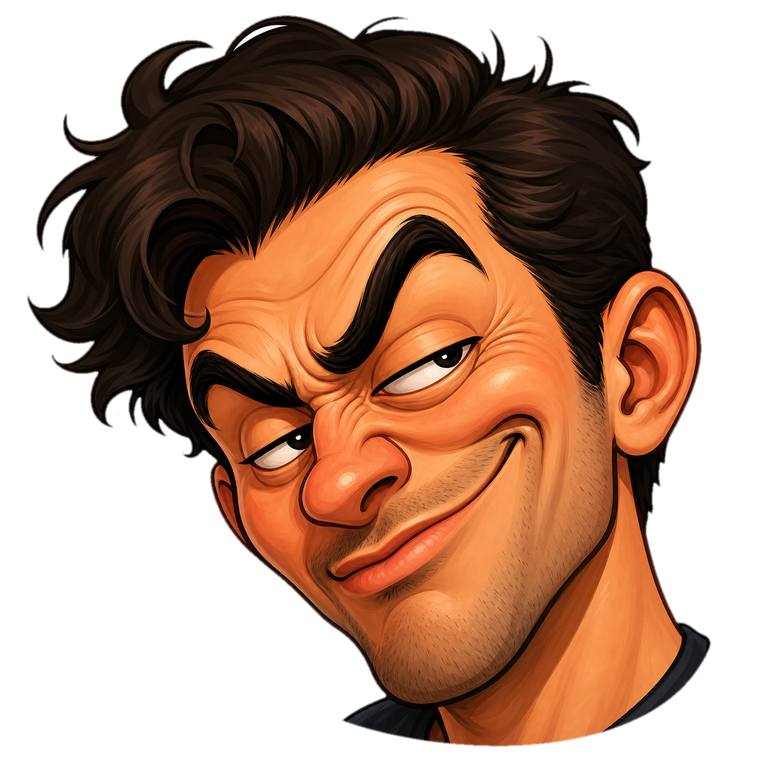
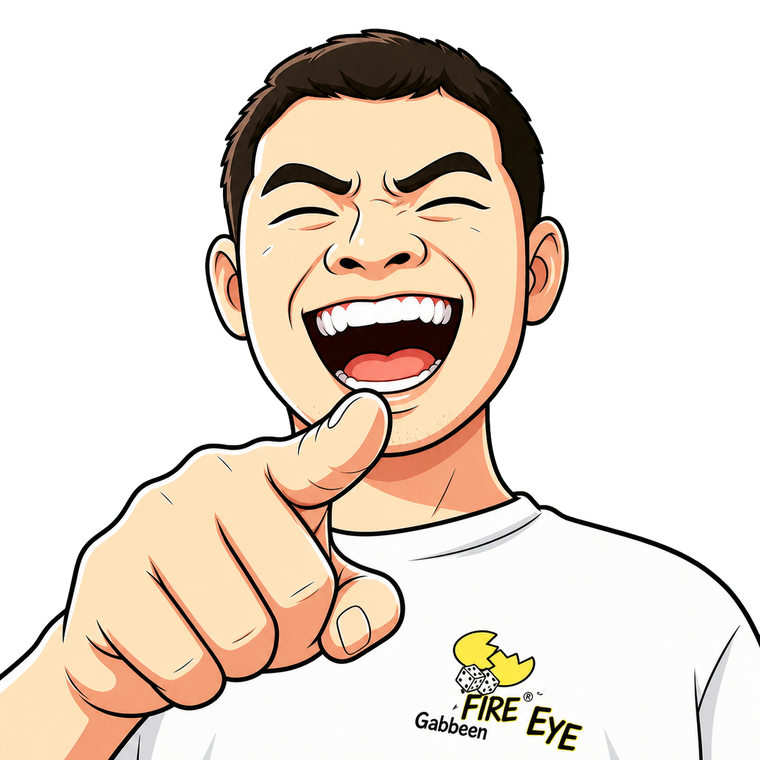
Add files via upload

diff --git a/slap-hand-game/game.js b/slap-hand-game/game.js
@@ -14,13 +14,16 @@ const ASSETS = {
 const images = {};
 const audio = {
   palm: null,
-  back: null
+  back: null,
+  bgm: null,
+  bgmStarted: false
 };
 
 const state = {
   width: 0,
   height: 0,
   pixelRatio: 1,
+  safeTop: 0,
   loaded: 0,
   total: Object.keys(ASSETS).length,
   face: "faceNormal",
@@ -28,6 +31,10 @@ const state = {
   actionStart: 0,
   leftCount: 0,
   rightCount: 0,
+  energyScore: 0,
+  lastEnergyDirection: null,
+  lastEnergyGain: 0,
+  lastEnergyGainAt: 0,
   message: "点左右方向键，安排他一下",
   leftButton: null,
   rightButton: null,
@@ -35,6 +42,7 @@ const state = {
 };
 
 const ACTION_DURATION = 760;
+const ENERGY_MAX = 333;
 const DEFAULT_IDLE_MESSAGE = "继续点，左右都能打";
 const TAUNT_MESSAGES = [
   "打啊，就没力气了？",
@@ -56,13 +64,27 @@ function getIdleMessage() {
   return TAUNT_MESSAGES[phraseIndex];
 }
 
+function getEnergyGain(direction) {
+  return state.lastEnergyDirection && state.lastEnergyDirection !== direction ? 3 : 1;
+}
+
+function addEnergy(direction) {
+  const gain = getEnergyGain(direction);
+  state.energyScore = Math.min(state.energyScore + gain, ENERGY_MAX);
+  state.lastEnergyDirection = direction;
+  state.lastEnergyGain = gain;
+  state.lastEnergyGainAt = Date.now();
+  return gain;
+}
+
 function getWindowSize() {
   if (wx.getWindowInfo) {
     const info = wx.getWindowInfo();
     return {
       width: info.windowWidth,
       height: info.windowHeight,
-      pixelRatio: info.pixelRatio || 1
+      pixelRatio: info.pixelRatio || 1,
+      safeTop: info.safeArea ? info.safeArea.top : 0
     };
   }
 
@@ -70,7 +92,8 @@ function getWindowSize() {
   return {
     width: info.windowWidth,
     height: info.windowHeight,
-    pixelRatio: info.pixelRatio || 1
+    pixelRatio: info.pixelRatio || 1,
+    safeTop: info.safeArea ? info.safeArea.top : 0
   };
 }
 
@@ -79,6 +102,7 @@ function resizeCanvas() {
   state.width = size.width;
   state.height = size.height;
   state.pixelRatio = size.pixelRatio;
+  state.safeTop = size.safeTop || 0;
   canvas.width = Math.floor(size.width * size.pixelRatio);
   canvas.height = Math.floor(size.height * size.pixelRatio);
   ctx.setTransform(state.pixelRatio, 0, 0, state.pixelRatio, 0, 0);
@@ -109,6 +133,21 @@ function initAudio() {
   audio.back.src = "assets/audio/slap-back.wav";
   audio.back.volume = 0.95;
   audio.back.obeyMuteSwitch = false;
+
+  audio.bgm = wx.createInnerAudioContext();
+  audio.bgm.src = "assets/audio/bgm-slap-game-loop-30s.wav";
+  audio.bgm.loop = true;
+  audio.bgm.volume = 0.42;
+  audio.bgm.obeyMuteSwitch = false;
+}
+
+function startBgm() {
+  if (!audio.bgm || audio.bgmStarted) {
+    return;
+  }
+
+  audio.bgmStarted = true;
+  audio.bgm.play();
 }
 
 function playSlapSound(direction) {
@@ -119,6 +158,14 @@ function playSlapSound(direction) {
 
   sound.stop();
   sound.play();
+}
+
+function vibrateOnSlap() {
+  if (!wx.vibrateShort) {
+    return;
+  }
+
+  wx.vibrateShort({ type: "light" });
 }
 
 function drawRoundRect(x, y, width, height, radius, fillStyle) {
@@ -173,29 +220,189 @@ function drawBackground() {
   ctx.fill();
 }
 
-function drawScores() {
-  const top = 22;
-  const boxW = Math.min(116, state.width * 0.28);
-  const boxH = 46;
+function drawEnergyFlames(centerX, centerY, width, height, now) {
+  const left = centerX - width / 2;
+  const top = centerY - height / 2;
+  const flameCount = 34;
 
-  drawRoundRect(18, top, boxW, boxH, 8, "rgba(17,24,39,0.08)");
-  drawRoundRect(state.width - boxW - 18, top, boxW, boxH, 8, "rgba(17,24,39,0.08)");
+  ctx.save();
+  ctx.globalCompositeOperation = "lighter";
+  ctx.shadowColor = "rgba(239,68,68,0.42)";
+  ctx.shadowBlur = 18;
 
-  ctx.textAlign = "center";
-  ctx.textBaseline = "middle";
-  ctx.fillStyle = "#111827";
-  ctx.font = "700 18px sans-serif";
-  ctx.fillText("左右开弓", state.width / 2, top + boxH / 2);
+  for (let i = 0; i < flameCount; i += 1) {
+    const ratio = i / (flameCount - 1);
+    const x = left + ratio * width;
+    const narrow = width / flameCount;
+    const waveA = Math.sin(now * 0.013 + i * 1.91);
+    const waveB = Math.sin(now * 0.021 + i * 0.77);
+    const lift = 18 + (waveA * 0.5 + 0.5) * 34 + (waveB * 0.5 + 0.5) * 12;
+    const drift = waveB * 9;
+    const baseY = top + height * (0.74 + (i % 3) * 0.08);
+    const tipX = x + drift;
+    const tipY = top - lift;
 
-  ctx.font = "600 13px sans-serif";
-  ctx.fillStyle = "#4b5563";
-  ctx.fillText("左手", 48, top + boxH / 2);
-  ctx.fillText("右手", state.width - boxW + 30, top + boxH / 2);
+    const flameGradient = ctx.createLinearGradient(tipX, tipY, x, baseY);
+    flameGradient.addColorStop(0, "rgba(254,202,202,1)");
+    flameGradient.addColorStop(0.22, "rgba(248,113,113,0.42)");
+    flameGradient.addColorStop(0.58, "rgba(220,38,38,0.74)");
+    flameGradient.addColorStop(1, "rgba(127,29,29,0.58)");
 
-  ctx.font = "800 22px sans-serif";
-  ctx.fillStyle = "#111827";
-  ctx.fillText(String(state.leftCount), 92, top + boxH / 2);
-  ctx.fillText(String(state.rightCount), state.width - 48, top + boxH / 2);
+    ctx.globalAlpha = 0.58 + (i % 4) * 0.06;
+    ctx.beginPath();
+    ctx.moveTo(x - narrow * 0.85, baseY);
+    ctx.bezierCurveTo(
+      x - narrow * 0.3 + drift * 0.2,
+      top + height * 0.22,
+      tipX - narrow * 0.55,
+      tipY + lift * 0.34,
+      tipX,
+      tipY
+    );
+    ctx.bezierCurveTo(
+      tipX + narrow * 0.45,
+      tipY + lift * 0.28,
+      x + narrow * 0.6 + drift * 0.15,
+      top + height * 0.26,
+      x + narrow * 0.95,
+      baseY
+    );
+    ctx.closePath();
+    ctx.fillStyle = flameGradient;
+    ctx.fill();
+  }
+
+  ctx.shadowBlur = 0;
+  ctx.globalCompositeOperation = "source-over";
+  ctx.globalAlpha = 0.24;
+  ctx.strokeStyle = "rgba(75,85,99,0.42)";
+  ctx.lineWidth = 2;
+  for (let i = 0; i < 8; i += 1) {
+    const smokeX = left + ((now * 0.015 + i * 53) % width);
+    const smokeY = top - 10 - (i % 4) * 9;
+    ctx.beginPath();
+    ctx.moveTo(smokeX, smokeY + 14);
+    ctx.quadraticCurveTo(
+      smokeX + Math.sin(now * 0.01 + i) * 14,
+      smokeY,
+      smokeX + Math.cos(now * 0.012 + i) * 22,
+      smokeY - 16
+    );
+    ctx.stroke();
+  }
+
+  ctx.globalAlpha = 0.55;
+  ctx.fillStyle = "rgba(248,113,113,0.72)";
+  for (let i = 0; i < 12; i += 1) {
+    const sparkX = left + ((now * 0.06 + i * 37) % width);
+    const sparkY = top - 4 - ((now * 0.045 + i * 19) % 42);
+    ctx.fillRect(sparkX, sparkY, 1.4, 3.8);
+  }
+  ctx.restore();
+}
+
+function drawEnergyBar(now) {
+  const top = Math.max(54, state.safeTop + 12);
+  const barW = Math.min(326, state.width - 34);
+  const barH = 34;
+  const centerX = state.width / 2;
+  const centerY = top + barH / 2;
+  const fillRatio = Math.min(state.energyScore / ENERGY_MAX, 1);
+  const isFull = state.energyScore >= ENERGY_MAX;
+  const x = centerX - barW / 2;
+  const y = centerY - barH / 2;
+  const fillW = Math.max(0, barW * fillRatio);
+
+  ctx.save();
+  if (isFull) {
+    drawEnergyFlames(centerX, centerY, barW, barH, now);
+  }
+
+  if (fillW <= 0) {
+    ctx.restore();
+    return;
+  }
+
+  ctx.shadowColor = isFull ? "rgba(249,115,22,0.56)" : "rgba(234,179,8,0.36)";
+  ctx.shadowBlur = isFull ? 22 : 14;
+  ctx.shadowOffsetY = 5;
+
+  const bodyGradient = ctx.createLinearGradient(x, y, x, y + barH);
+  bodyGradient.addColorStop(0, "#fffde1");
+  bodyGradient.addColorStop(0.2, "#fef08a");
+  bodyGradient.addColorStop(0.44, "#fde047");
+  bodyGradient.addColorStop(0.68, "#fbbf24");
+  bodyGradient.addColorStop(0.86, "#f59e0b");
+  bodyGradient.addColorStop(1, isFull ? "#f97316" : "#ca8a04");
+  drawRoundRect(x, y, fillW, barH, 17, bodyGradient);
+  ctx.shadowColor = "transparent";
+
+  ctx.save();
+  ctx.beginPath();
+  ctx.rect(x, y, fillW, barH);
+  ctx.clip();
+
+  const shineGradient = ctx.createLinearGradient(x, y, x, y + barH);
+  shineGradient.addColorStop(0, "rgba(255,255,255,0.92)");
+  shineGradient.addColorStop(0.42, "rgba(255,255,255,0.32)");
+  shineGradient.addColorStop(0.44, "rgba(255,255,255,0)");
+  shineGradient.addColorStop(1, "rgba(255,255,255,0)");
+  drawRoundRect(x + 3, y + 3, Math.max(0, fillW - 6), Math.max(8, barH * 0.34), 8, shineGradient);
+
+  ctx.globalAlpha = isFull ? 0.82 : 0.62;
+  ctx.strokeStyle = isFull ? "rgba(255,255,255,0.76)" : "rgba(255,255,255,0.58)";
+  ctx.lineWidth = 4;
+  const stripeOffset = (now * 0.18) % 26;
+  for (let stripeX = x - barH + stripeOffset; stripeX < x + barW + barH; stripeX += 26) {
+    ctx.beginPath();
+    ctx.moveTo(stripeX, y + barH);
+    ctx.lineTo(stripeX + barH, y);
+    ctx.stroke();
+  }
+  ctx.restore();
+
+  ctx.save();
+  ctx.globalAlpha = 0.38 + Math.sin(now * 0.012) * 0.12;
+  ctx.fillStyle = "rgba(255,255,255,0.82)";
+  for (let i = 0; i < 4; i += 1) {
+    const sparkleX = x + 22 + ((now * 0.035 + i * 73) % Math.max(1, barW - 44));
+    const sparkleY = y + 10 + (i % 2) * 12;
+    ctx.beginPath();
+    ctx.arc(sparkleX, sparkleY, 2.2, 0, Math.PI * 2);
+    ctx.fill();
+  }
+  ctx.restore();
+
+  ctx.strokeStyle = isFull ? "rgba(255,237,213,0.9)" : "rgba(255,251,235,0.7)";
+  ctx.lineWidth = 2;
+  ctx.beginPath();
+  ctx.moveTo(x + 12, y + 2);
+  ctx.lineTo(x + Math.max(12, fillW - 12), y + 2);
+  ctx.stroke();
+  ctx.restore();
+
+  if (state.lastEnergyGain > 0) {
+    const age = now - state.lastEnergyGainAt;
+    if (age < 760) {
+      const progress = age / 760;
+      const popY = centerY - 1 - progress * 24;
+      const scale = 1.08 + Math.sin(progress * Math.PI) * 0.46;
+
+      ctx.save();
+      ctx.globalAlpha = 1 - progress;
+      ctx.translate(centerX, popY);
+      ctx.scale(scale, scale);
+      ctx.textAlign = "center";
+      ctx.textBaseline = "middle";
+      ctx.font = "900 24px sans-serif";
+      ctx.lineWidth = 5;
+      ctx.strokeStyle = state.lastEnergyGain >= 3 ? "rgba(127,29,29,0.82)" : "rgba(120,53,15,0.78)";
+      ctx.fillStyle = state.lastEnergyGain >= 3 ? "#ffedd5" : "#fffbeb";
+      ctx.strokeText(`+${state.lastEnergyGain}`, 0, 0);
+      ctx.fillText(`+${state.lastEnergyGain}`, 0, 0);
+      ctx.restore();
+    }
+  }
 }
 
 function getActionProgress(now) {
@@ -335,7 +542,7 @@ function render() {
   if (state.loaded < state.total) {
     drawLoading();
   } else {
-    drawScores();
+    drawEnergyBar(now);
     const faceBox = drawFace(now);
     drawHand(now, faceBox);
     drawPrompt();
@@ -355,7 +562,9 @@ function pointInRect(point, rect) {
 
 function playSlap(direction, options = {}) {
   const isLeft = direction === "left";
+  startBgm();
   playSlapSound(direction);
+  vibrateOnSlap();
   state.action = direction;
   state.actionStart = Date.now();
   state.face = isLeft ? "faceLeft" : "faceRight";
@@ -365,6 +574,8 @@ function playSlap(direction, options = {}) {
   if (options.countHit === false) {
     return;
   }
+
+  addEnergy(direction);
 
   if (isLeft) {
     state.leftCount += 1;

diff --git a/slap-hand-game/docs/GAME_DEV_INDEX.md b/slap-hand-game/docs/GAME_DEV_INDEX.md
@@ -22,3 +22,29 @@
 - 2026-05-22 00:00 - 新增音频反馈：每次扇巴掌播放本地巴掌音效，首次点击后循环播放“你打我啊，你打我塞”魔性背景音乐。
 - 2026-05-22 00:00 - 移除背景音乐：保留每次扇巴掌的巴掌音效，删除循环背景音乐接入。
 - 2026-05-23 00:00 - 区分巴掌音效：新增手心打 `slap-palm.wav` 和手背打 `slap-back.wav`，左右键分别播放不同音色。
+- 2026-05-23 00:00 - 新增原创魔性循环音乐：生成 `assets/audio/bgm-magic-slap-loop-30s.wav`，30 秒可循环，歌词为“你打我赛，你打我啊，打死我啊”。
+- 2026-05-23 00:00 - 调整魔性循环音乐：降低尖锐高频，将三句歌词拆分并按 120BPM 拍点排列，让歌词和节奏更贴合。
+- 2026-05-23 00:00 - 调整循环音乐歌词清晰度：删除“你打我赛”，保留“你打我啊、打死我啊”，降低伴奏遮挡并放慢人声吐字。
+- 2026-05-23 00:00 - 再次提升循环音乐吐字清晰度：放慢人声、增加字间停顿、进一步降低歌词段伴奏音量。
+- 2026-05-23 00:00 - 新增小游戏专用纯背景音乐：生成 `assets/audio/bgm-slap-game-loop-30s.wav`，30 秒可循环，轻快贱贱风格，无歌词。
+- 2026-05-23 00:00 - 接入纯背景音乐和震动反馈：首次点击后循环播放 `bgm-slap-game-loop-30s.wav`，每次扇巴掌触发短震动。
+- 2026-05-23 00:00 - 修复微信预览 4MB 限制：移出未使用歌词背景音乐，并将当前背景音乐降采样到 11025Hz，项目包体降至约 3.49MB。
+- 2026-05-23 00:00 - 修正真机巴掌音色：以旧本地 `slap.wav` 为母版重做手心/手背音效，降低金属感和高频锅声。
+- 2026-05-23 00:00 - 微调右侧巴掌音效：基于左侧手心音效重做右侧手背版本，减少木板感并保持扇脸质感。
+- 2026-05-23 00:00 - 再次微调右侧巴掌音效：增强手背音效瞬态和亮度，保持短促巴掌质感并避免金属锅声。
+- 2026-05-23 00:00 - 替换游戏背景音乐：将用户视频提取音频压缩为 11025Hz 单声道 WAV，并作为当前小游戏循环背景音乐。
+- 2026-05-23 00:00 - 裁剪背景音乐开头：移除当前背景音乐前 2 秒，并保留同名文件作为小游戏循环背景音乐。
+- 2026-05-23 00:00 - 调整顶部显示：移除画面中央“左右开弓”标题，保留左右计数信息。
+- 2026-05-23 00:00 - 新增能量条系统：顶部左右计数改为黄色能量条，单侧点击加 1、左右交替连点加 3，333 分满能量后冒火并快速旋转。
+- 2026-05-23 00:00 - 优化能量条表现：增强黄色能量条立体渐变、高光和流动斜纹，隐藏总分文本并改为点击后弹出本次加分。
+- 2026-05-23 00:00 - 复查并强化能量条 UI：删除旧左右计数绘制，改为更宽更厚的金黄色立体能量条底槽、流动高光和闪点动效。
+- 2026-05-23 00:00 - 调整能量条显示：去掉能量条背景框和内缩暗槽，改为仅绘制从左到右填满当前进度的黄色能量本体。
+- 2026-05-23 00:00 - 稳定满能量显示：移除满能量时的能量条旋转变换，保留原位冒火和流动高光效果。
+- 2026-05-23 00:00 - 优化满能量表现：能量条下移并适配安全区，满能量火焰改为覆盖整条能量条的连续熊熊烈焰。
+- 2026-05-23 00:00 - 调整满能量火焰风格：将卡通火苗改为半透明不规则火舌、热烟线和细小火星，降低白色高光以增强真实感。
+- 2026-05-24 00:00 - 调整满能量火焰颜色：半透明火舌从橙红改为更明显的火红色系，并同步火星颜色。
+- 2026-05-24 00:00 - 调整满能量火焰边缘：顶部高温边缘改为不透明亮红色，增强火焰可见度。
+- 2026-05-25 00:00 - 替换普通状态人脸：将新人物图裁切压缩为 760x760 PNG 并接入 `assets/cutout/face-normal.png`。
+- 2026-05-25 00:00 - 替换左手受击人脸：将新左侧受击图裁切压缩为 760x760 PNG 并接入 `assets/cutout/face-hit-left.png`。
+- 2026-05-25 00:00 - 替换右手受击人脸并透明化三态脸图：普通、左受击、右受击素材去除白色底框并接入 `assets/cutout/`。
+- 2026-05-26 00:00 - 更新普通状态人物：将用户指定的绿幕指人图片抠底压缩后替换 `assets/cutout/face-normal.png`。